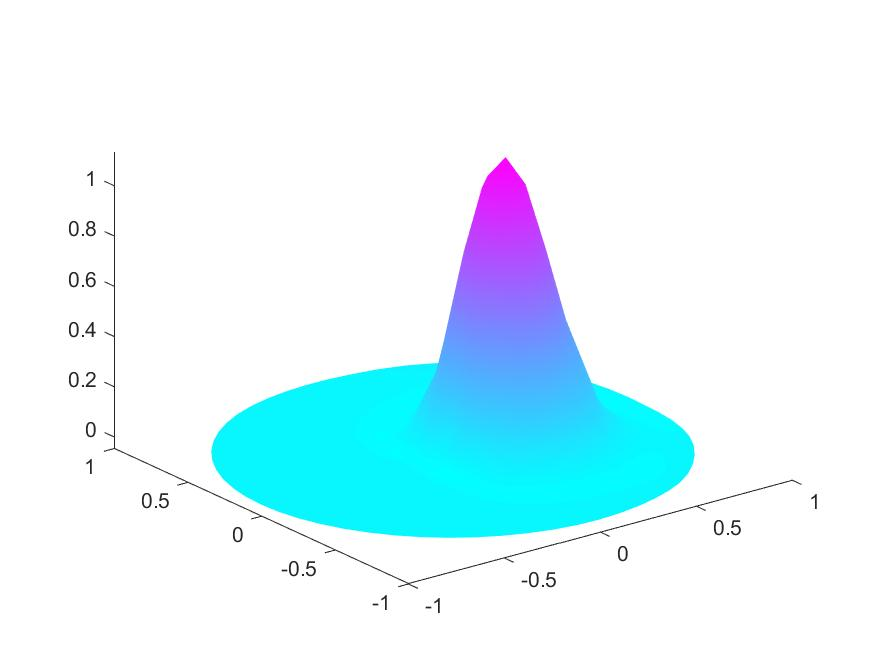
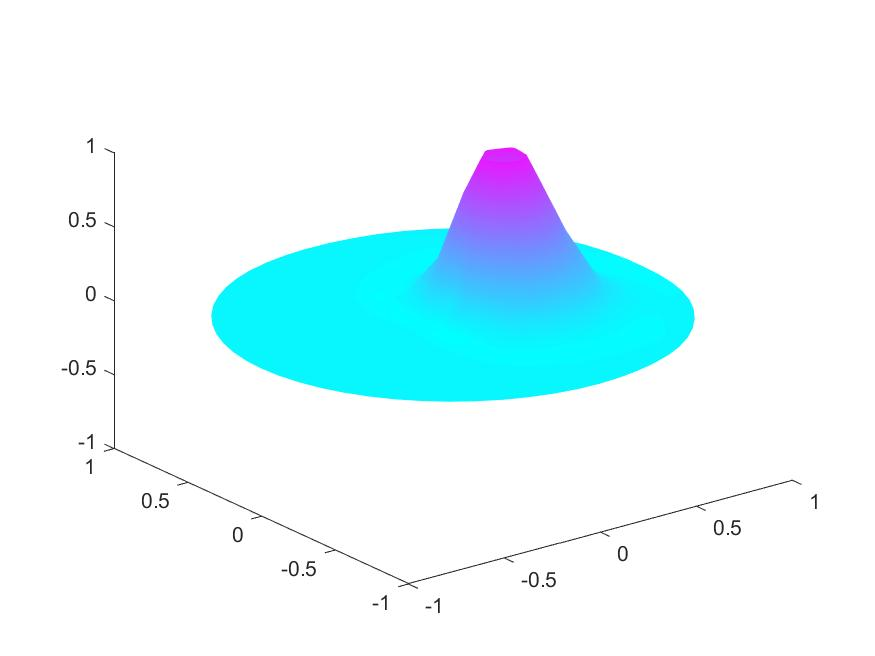
added result-optimized plots and functions

diff --git a/FEM_Assign1/Code/RunPart2.m b/FEM_Assign1/Code/RunPart2.m
@@ -1,4 +1,6 @@
 close all;
+ProblemOptimal();
+close all;
 Problem22();
 close all;
 Problem23();
@@ -11,6 +13,7 @@ function MakeAnims(RunSimulationFunc, InitialFunc, simName)
         [U, M, p, t] = RunSimulationFunc(h(i), InitialFunc);
         figure;
         pdesurf(p,t,U(:,size(U, 2)))
+        zlim([-1, 1]);
         print(['../Plots/problem_2_result_', simName, '_', num2str(i)],'-djpeg')
 
         animFileName = ['../Plots/animation_', simName, '_h', num2str(i)];
@@ -74,6 +77,29 @@ function Problem23()
     close all;
 end
 
+function ProblemOptimal()
+
+    h = 1/16;
+
+    [U, M, p, t] = RunSimulationGLS(h, @InitialCylinderFunction);
+    figure;
+    pdesurf(p,t,U(:,size(U, 2)))
+    zlim([-1, 1]);
+    print('../Plots/problem_2_result_gls_opt','-djpeg')
+
+    animFileName = '../Plots/animation_gls_opt';
+    MakeAnimation(p, t, U, animFileName, 1/20);
+    
+    [U, M, p, t] = RunSimulationRV(h, @InitialCylinderFunction);
+    figure;
+    pdesurf(p,t,U(:,size(U, 2)))
+    zlim([-1, 1]);
+    print('../Plots/problem_2_result_rv_opt','-djpeg')
+
+    animFileName = '../Plots/animation_rv_opt';
+    MakeAnimation(p, t, U, animFileName, 1/20);
+
+end
 
 function [U, M, p, t] = RunSimulationGLS(meshSize, InitialData)
     endTime = 1;
